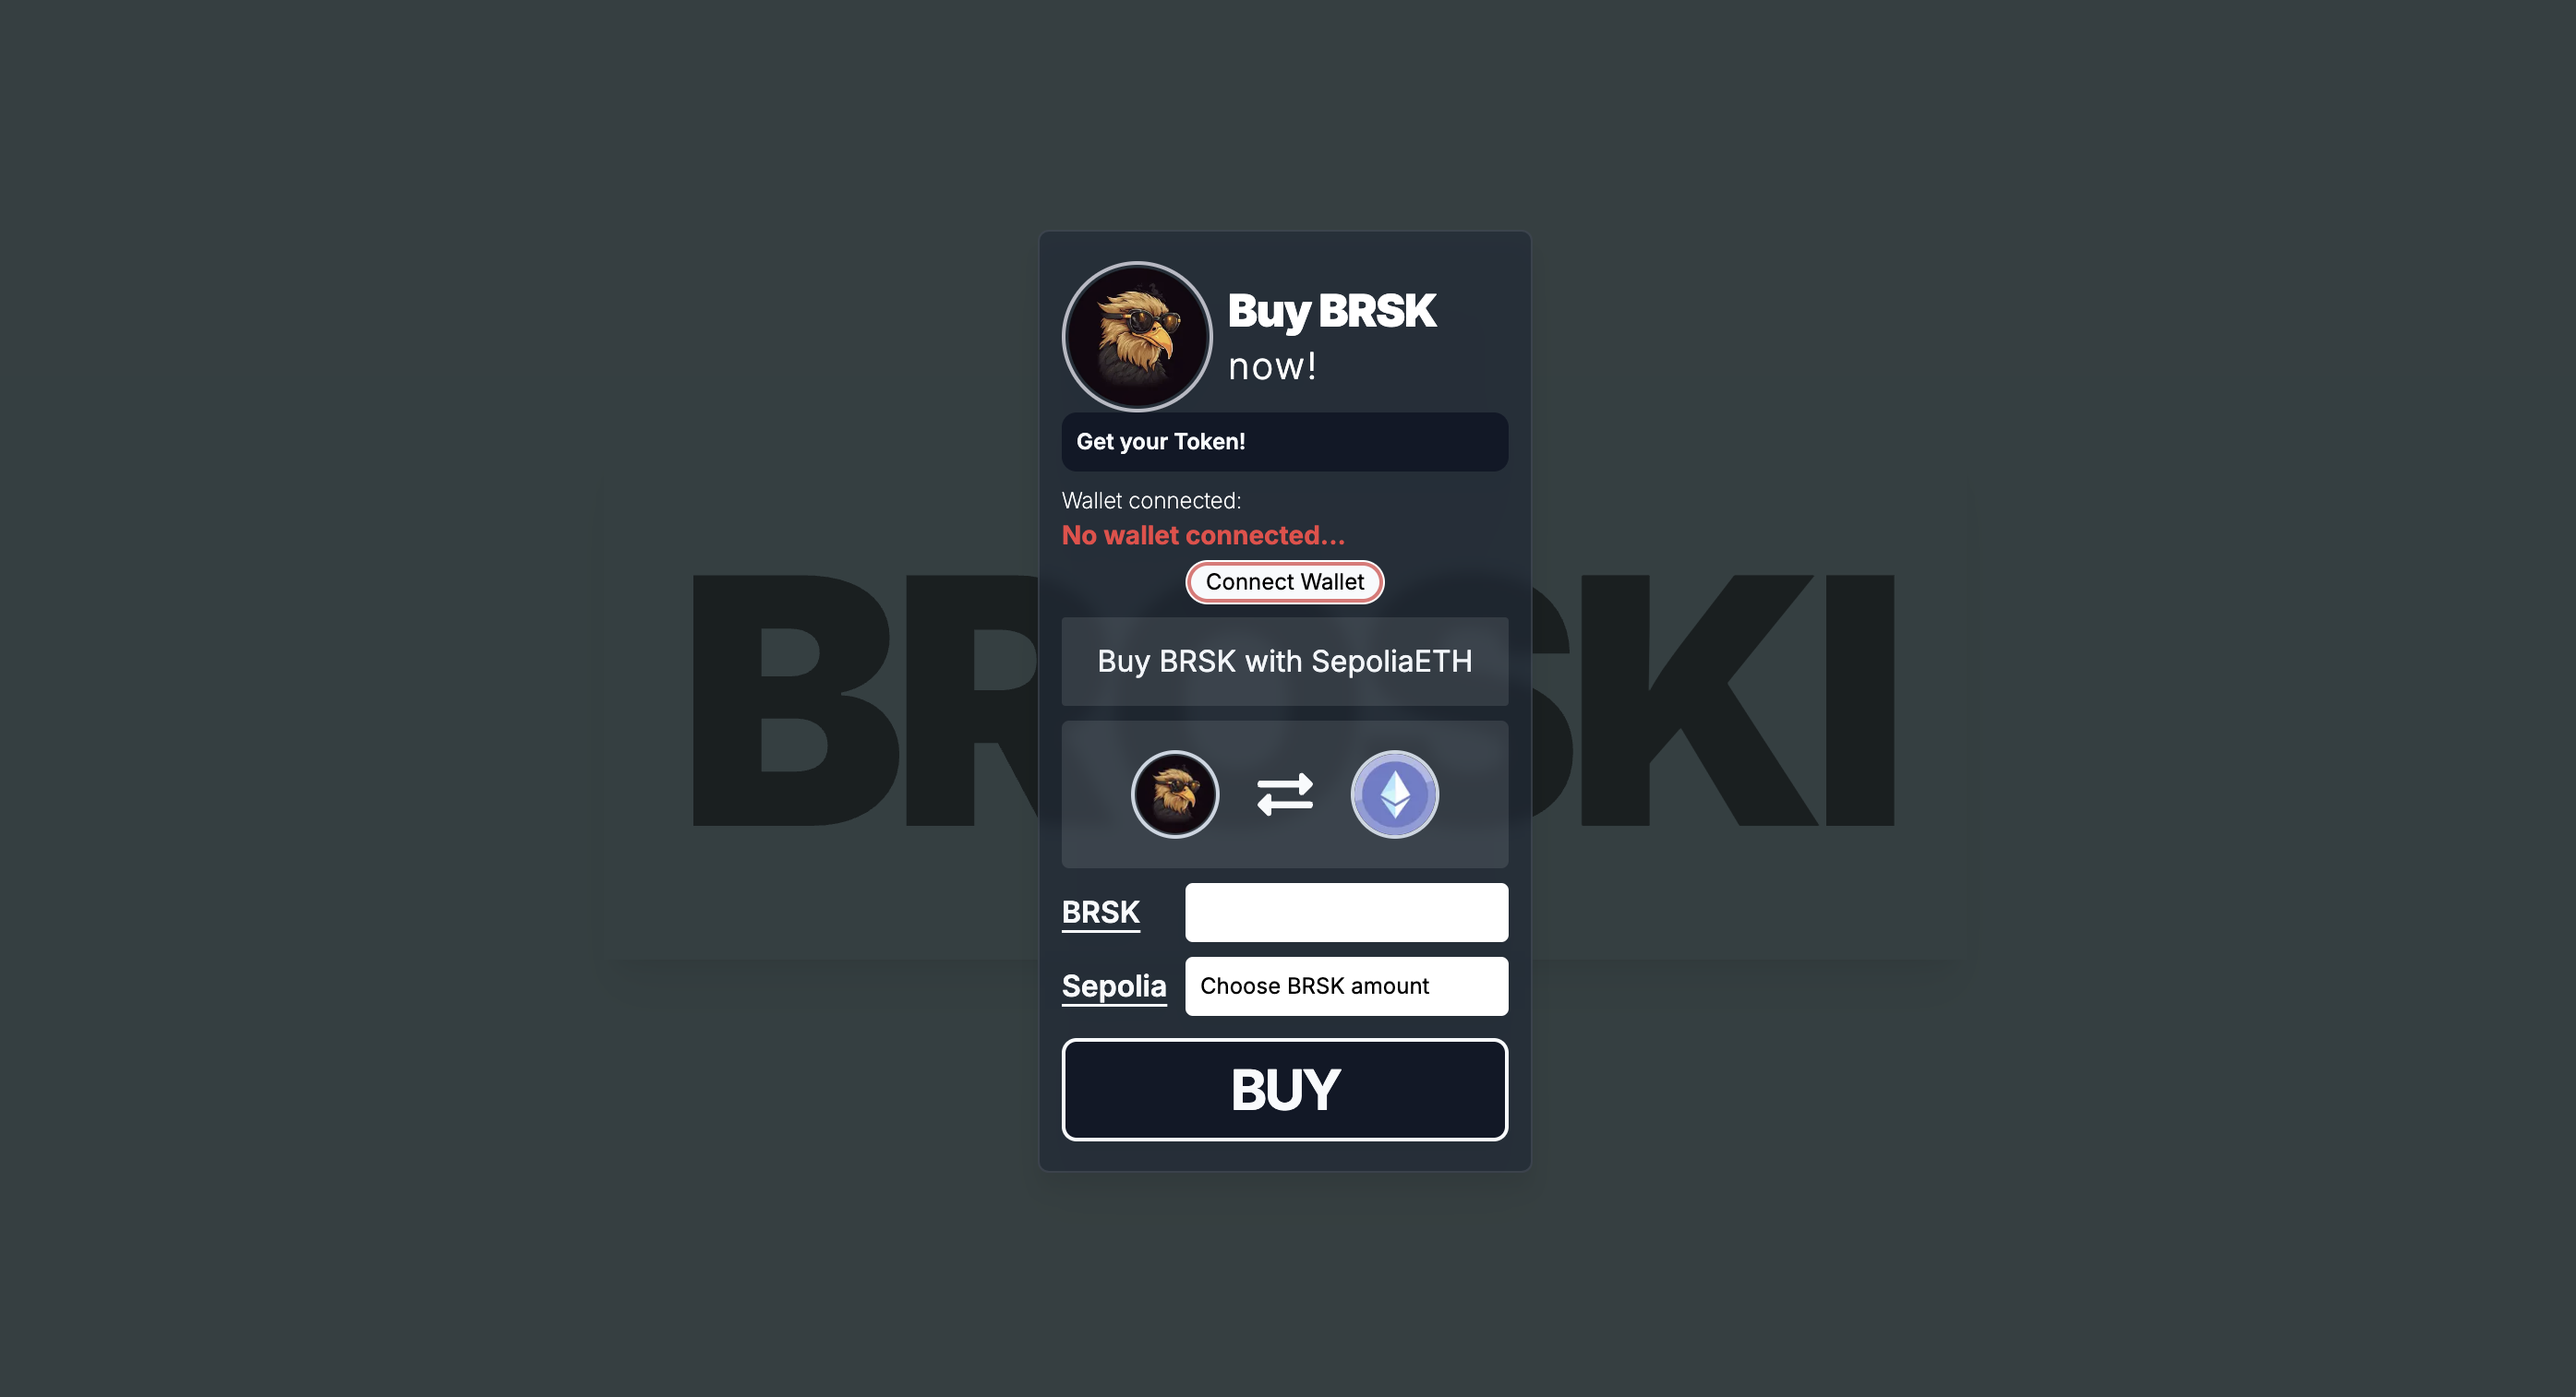
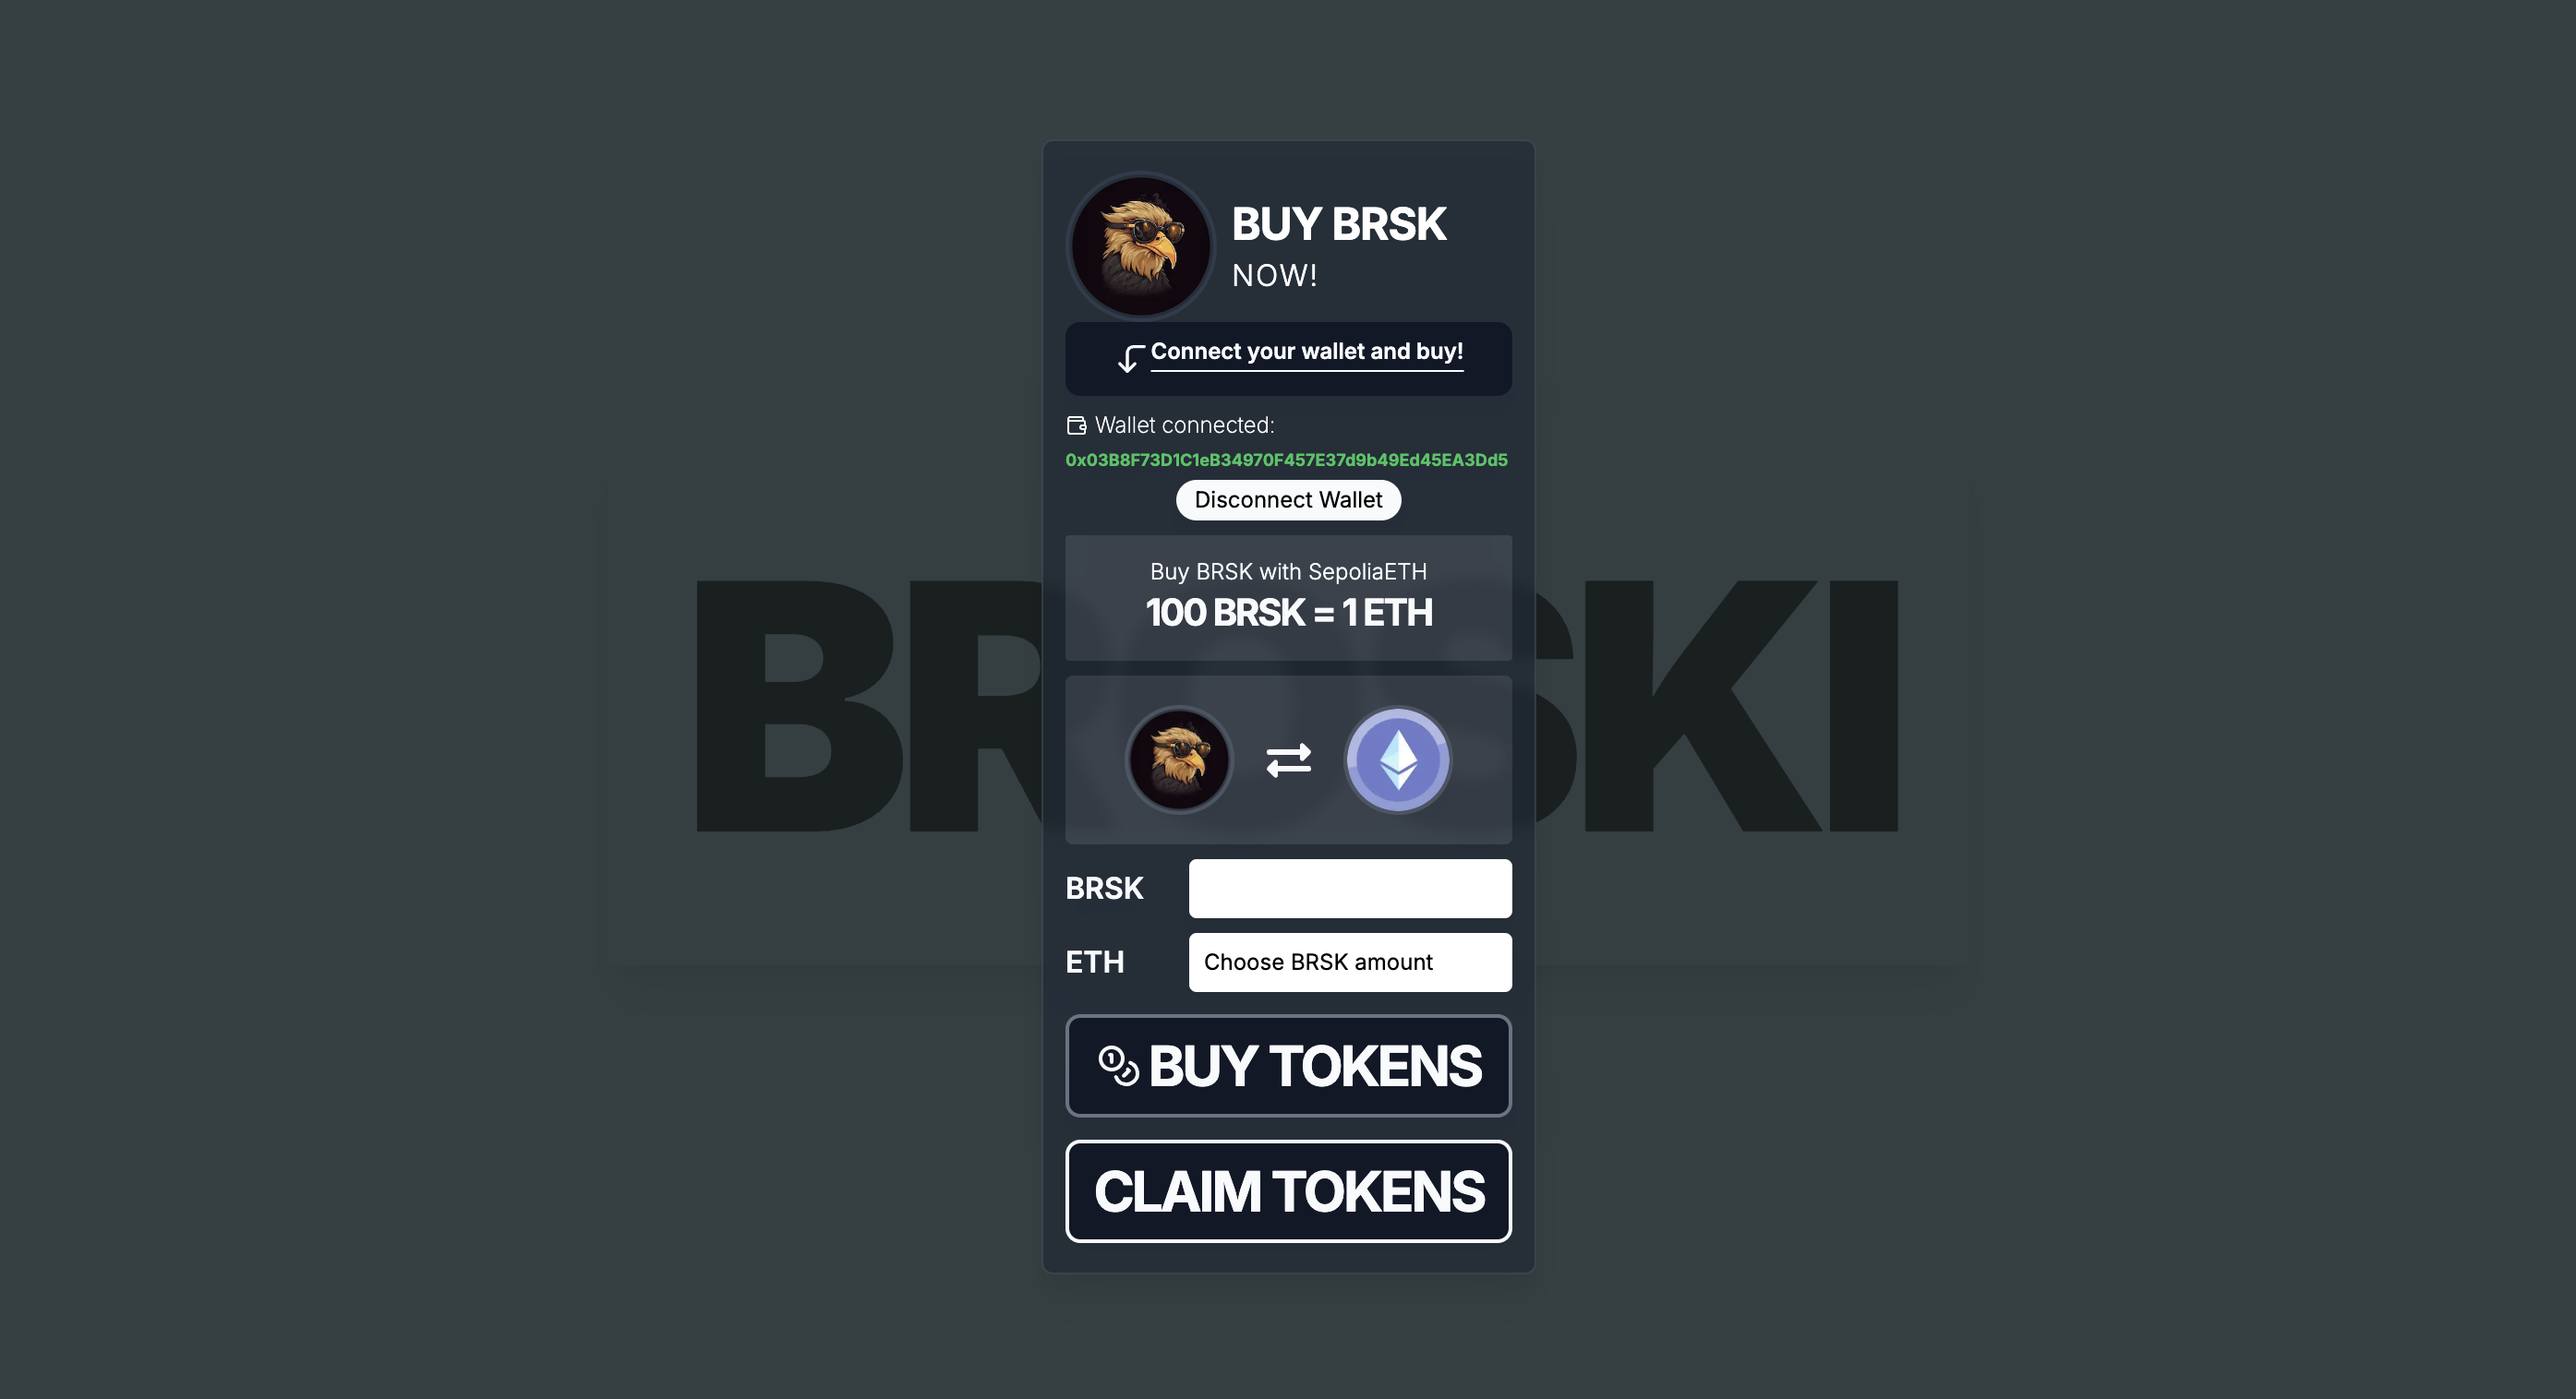
commit

diff --git a/components/etc/BuyTokenCard.jsx b/components/etc/BuyTokenCard.jsx
@@ -4,6 +4,7 @@ import React, { useEffect, useState } from 'react';
 import { FaExchangeAlt } from 'react-icons/fa';
 import { ethers } from 'ethers';
 import { presaleABI } from '@/lib/presaleABI';
+import { Coins, CornerDownLeft, CornerLeftDown, Wallet } from 'lucide-react';
 
 const TOKEN_ADDRESS = "0x529bBdF560b5b3F5467b47F1B86E9805e4bC1e60";
 const PRESALE_ADDRESS = "0x1982262c44852d7CF18f7c3D32DdeeB356013d87";
@@ -128,20 +129,20 @@ export const BuyTokenCard = () => {
         <div className='rounded-md h-fit w-[268px] flex flex-col bg-gray-800/70 border border-slate-50/10 drop-shadow-xl px-3 py-4 backdrop-blur-sm'>
             <div className='flex h-[82px] w-fit'>
                 <div className='mr-2 z-20 flex'>
-                    <Image src="/assets/logo.png" alt='Logo' width={82} height={82} className='border-2 border-violet-50/70 rounded-full' />
+                    <Image src="/assets/logo.png" alt='Logo' width={82} height={82} className='border-2 border-slate-700/70 rounded-full' />
                 </div>
                 <div className='z-20 flex h-full flex-col justify-center'>
-                    <h1 className='text-white text-2xl font-black tracking-tight'>Buy BRSK</h1>
-                    <h2 className='text-white text-xl font-light tracking-wider'>now!</h2>
+                    <h1 className='text-white text-2xl font-bold tracking-tight'>BUY BRSK</h1>
+                    <h2 className='text-white text-md font-light tracking-wider'>NOW!</h2>
                 </div>
             </div>
 
-            <div className="w-full bg-gray-900 rounded-lg p-2">
-                <h1 className='text-xs text-slate-50 font-semibold z-20'>Get your Token!</h1>
+            <div className="flex justify-center w-full bg-gray-900 rounded-lg py-2">
+                <h1 className='text-xs text-slate-50 font-semibold z-20 flex'><CornerLeftDown className='w-[20px]' /> <span className='underline-offset-[6px] underline'>Connect your wallet and buy!</span></h1>
             </div>
 
-            <div className='w-full flex flex-col mt-2'>
-                <h1 className='text-white font-extralight text-xs'>Wallet connected: </h1>
+            <div className='w-full flex flex-col mt-1'>
+                <h1 className='flex items-center gap-1 text-white font-extralight text-xs'><Wallet className='w-[12px]'/>Wallet connected: </h1>
                 <p className={`${connectedAddress ? "text-green-500 font-bold text-[6.8pt] select-all" : "text-red-500 font-bold text-[10.5pt]"}`}>
                     {connectedAddress ? String(connectedAddress.address) : "No wallet connected..."}
                 </p>
@@ -156,28 +157,29 @@ export const BuyTokenCard = () => {
                 )}
             </div>
 
-            <div className='mt-2 w-full bg-gray-50/10 flex justify-center py-3 rounded-sm'>
-                <p className='text-md text-slate-100'>
+            <div className='mt-2 w-full bg-gray-50/10 flex justify-center py-3 rounded-sm flex-col items-center'>
+                <p className='text-md text-slate-50 text-xs font-light'>
                     Buy BRSK with SepoliaETH
                 </p>
+                <p className='text-xl tracking-tighter text-slate-50 font-bold'>100 BRSK = 1 ETH</p>
             </div>
 
             <div className='w-full grid grid-cols-3 mt-2 py-4 px-8 bg-slate-50/10 rounded'>
                 <div className='flex justify-center items-center'>
-                    <Image src="/assets/logo.png" alt='BRSK' width={48} height={48} className='flex border-2 border-slate-300 rounded-full' />
+                    <Image src="/assets/logo.png" alt='BRSK' width={60} height={60} className='flex border-2 border-gray-600 rounded-full' />
                 </div>
                 <div className='flex justify-center items-center'>
-                    <FaExchangeAlt className='text-slate-50 text-3xl' />
+                    <FaExchangeAlt className='text-slate-50 text-2xl' />
                 </div>
                 <div className='flex justify-center items-center'>
-                    <Image src="/assets/eth.png" alt='ETH' width={48} height={48} className='flex border-2 border-slate-300 rounded-full' />
+                    <Image src="/assets/eth.png" alt='ETH' width={60} height={60} className='flex border-2 border-gray-600 rounded-full' />
                 </div>
             </div>
 
             <form className='w-full h-fit flex flex-col mt-2'>
                 <div className='grid grid-cols-1 gap-2'>
                     <div className='flex justify-between items-center'>
-                        <h1 className='text-slate-50 font-semibold underline-offset-4 underline'>BRSK</h1>
+                        <h1 className='text-slate-50 font-semibold underline-offset-4'>BRSK</h1>
                         <input
                             id="brsk_input"
                             type="number"
@@ -188,7 +190,7 @@ export const BuyTokenCard = () => {
                     </div>
 
                     <div className='flex justify-between items-center'>
-                        <h1 className='text-slate-50 font-semibold underline-offset-4 underline'>Sepolia</h1>
+                        <h1 className='text-slate-50 font-semibold underline-offset-4'>ETH</h1>
                         <input
                             id="price_input"
                             type="text"
@@ -202,9 +204,10 @@ export const BuyTokenCard = () => {
                 <button
                     type="button"
                     onClick={buyTokens}
-                    className='w-full py-2 border-2 border-slate-50 rounded-lg mt-3 font-bold tracking-tighter text-3xl text-slate-50 bg-gray-900 hover:bg-opacity-50'
+                    className='flex items-center justify-center gap-1 w-full py-2 border-2 border-gray-500 rounded-lg mt-3 font-bold tracking-tighter text-3xl text-slate-50 bg-gray-900 hover:bg-opacity-50 hover:border-slate-50'
                 >
-                    BUY
+                    <Coins />
+                    BUY TOKENS
                 </button>
 
                 {connectedAddress && (
